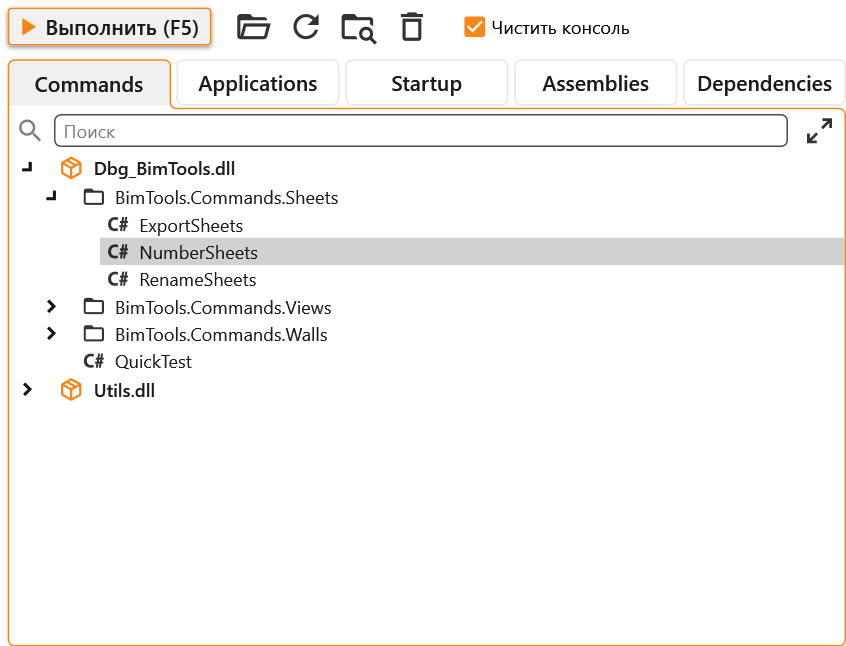
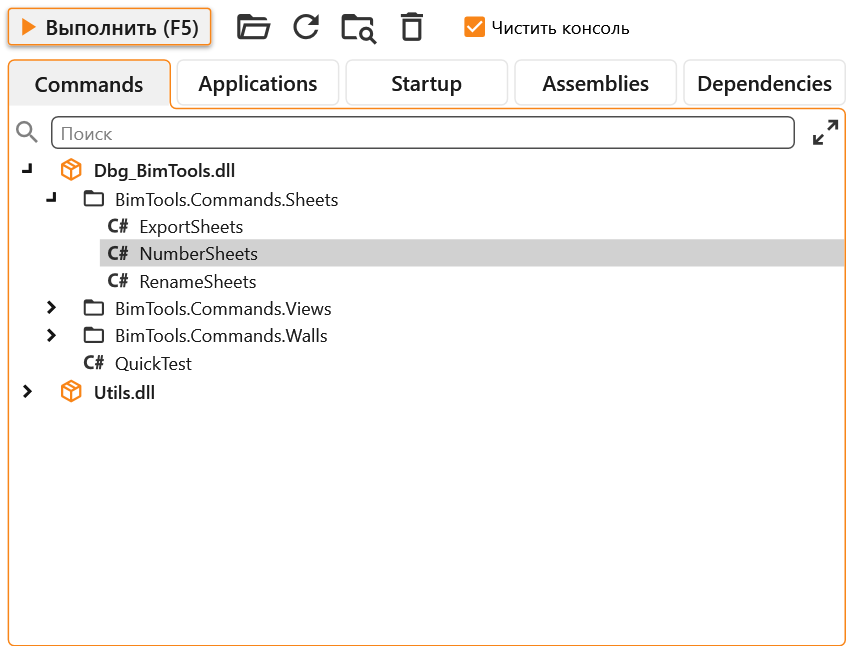
Add-in Explorer: even gaps around the search row; plain duplicate mark in the assemblies report

Changed region(s): [[0.0, 0.1548, 1.0, 0.6192]]

diff --git a/source/UI/DllRunner/AssemblyRunnerWindow.xaml b/source/UI/DllRunner/AssemblyRunnerWindow.xaml
@@ -288,7 +288,7 @@
             <TabItem Header="Commands" Style="{StaticResource FramedTabItem}" HeaderTemplate="{StaticResource TabHeader}">
                     <!-- The tree comes first in focus order, as on Dependencies: a click on the tab does not land in the search box. -->
                     <DockPanel KeyboardNavigation.TabNavigation="Local">
-                        <DockPanel DockPanel.Dock="Top" Margin="4 2">
+                        <DockPanel DockPanel.Dock="Top" Margin="2 3 0 2">
                             <Button DockPanel.Dock="Right" Width="25" Height="25" Margin="8 0 0 0" Padding="0" Command="{Binding CollapseAllCommand}"
                                     Style="{StaticResource MaterialDesignFlatButton}" ToolTip="Свернуть всё" TabIndex="2">
                                 <materialDesign:PackIcon Kind="ArrowExpand" Width="22" Height="22" Foreground="{StaticResource IconBrush}"/>
@@ -634,8 +634,9 @@
             <TabItem Header="Assemblies" Style="{StaticResource FramedTabItem}" HeaderTemplate="{StaticResource TabHeader}">
                 <!-- The list comes first in focus order, as on Dependencies: a click on the tab does not land in the search box. -->
                 <DockPanel KeyboardNavigation.TabNavigation="Local">
-                    <!-- As tall as the row with the collapse button on Commands and Dependencies: the box sits at the same height. -->
-                    <DockPanel DockPanel.Dock="Top" Margin="4 2" MinHeight="25">
+                    <!-- As tall as the row with the collapse button on Commands and Dependencies: the box sits at the same height.
+                         The margins leave 4 of white to what is drawn: the magnifier and the buttons' glyphs have room of their own. -->
+                    <DockPanel DockPanel.Dock="Top" Margin="2 3 4 2" MinHeight="25">
                         <materialDesign:PackIcon DockPanel.Dock="Left" Kind="Magnify" Width="20" Height="20" Foreground="Gray"
                                                  VerticalAlignment="Center" Margin="0 0 6 0"/>
                         <TextBox Text="{Binding LoadedAssemblies.SearchText, UpdateSourceTrigger=PropertyChanged}" VerticalAlignment="Center" Padding="5 2"
@@ -732,7 +733,7 @@
             <TabItem Header="Dependencies" Style="{StaticResource FramedTabItem}" HeaderTemplate="{StaticResource TabHeader}">
                 <!-- The tree comes first in focus order: opening the tab with a click puts the focus here, not in the search box. -->
                 <DockPanel KeyboardNavigation.TabNavigation="Local">
-                    <DockPanel DockPanel.Dock="Top" Margin="4 2">
+                    <DockPanel DockPanel.Dock="Top" Margin="2 3 0 2">
                         <Button DockPanel.Dock="Right" Width="25" Height="25" Margin="8 0 0 0" Padding="0" Command="{Binding Dependencies.CollapseAllCommand}"
                                 Style="{StaticResource MaterialDesignFlatButton}" ToolTip="Свернуть всё" TabIndex="2">
                             <materialDesign:PackIcon Kind="ArrowExpand" Width="22" Height="22" Foreground="{StaticResource IconBrush}"/>

diff --git a/source/Core/ProcessAssemblies.cs b/source/Core/ProcessAssemblies.cs
@@ -200,7 +200,7 @@ namespace RevitDevKit.Core
                             + ", показано " + rows.Count + " из " + total + ")");
             text.AppendLine();
             AddinDependencies.Table(text, new[] { "№", "Сборка", "Версия", "Версия файла", "Чья", "Путь" },
-                rows.Select(a => new[] { a.Number.ToString(), Cell(a.Name) + (a.IsDuplicate ? " ⚠" : ""), Cell(a.Version?.ToString()),
+                rows.Select(a => new[] { a.Number.ToString(), Cell(a.Name) + (a.IsDuplicate ? " (x" + a.SameName + ")" : ""), Cell(a.Version?.ToString()),
                     Cell(a.FileVersion), Cell(a.Owner), Cell(Where(a)) }), 0);
             return text.ToString();
         }
